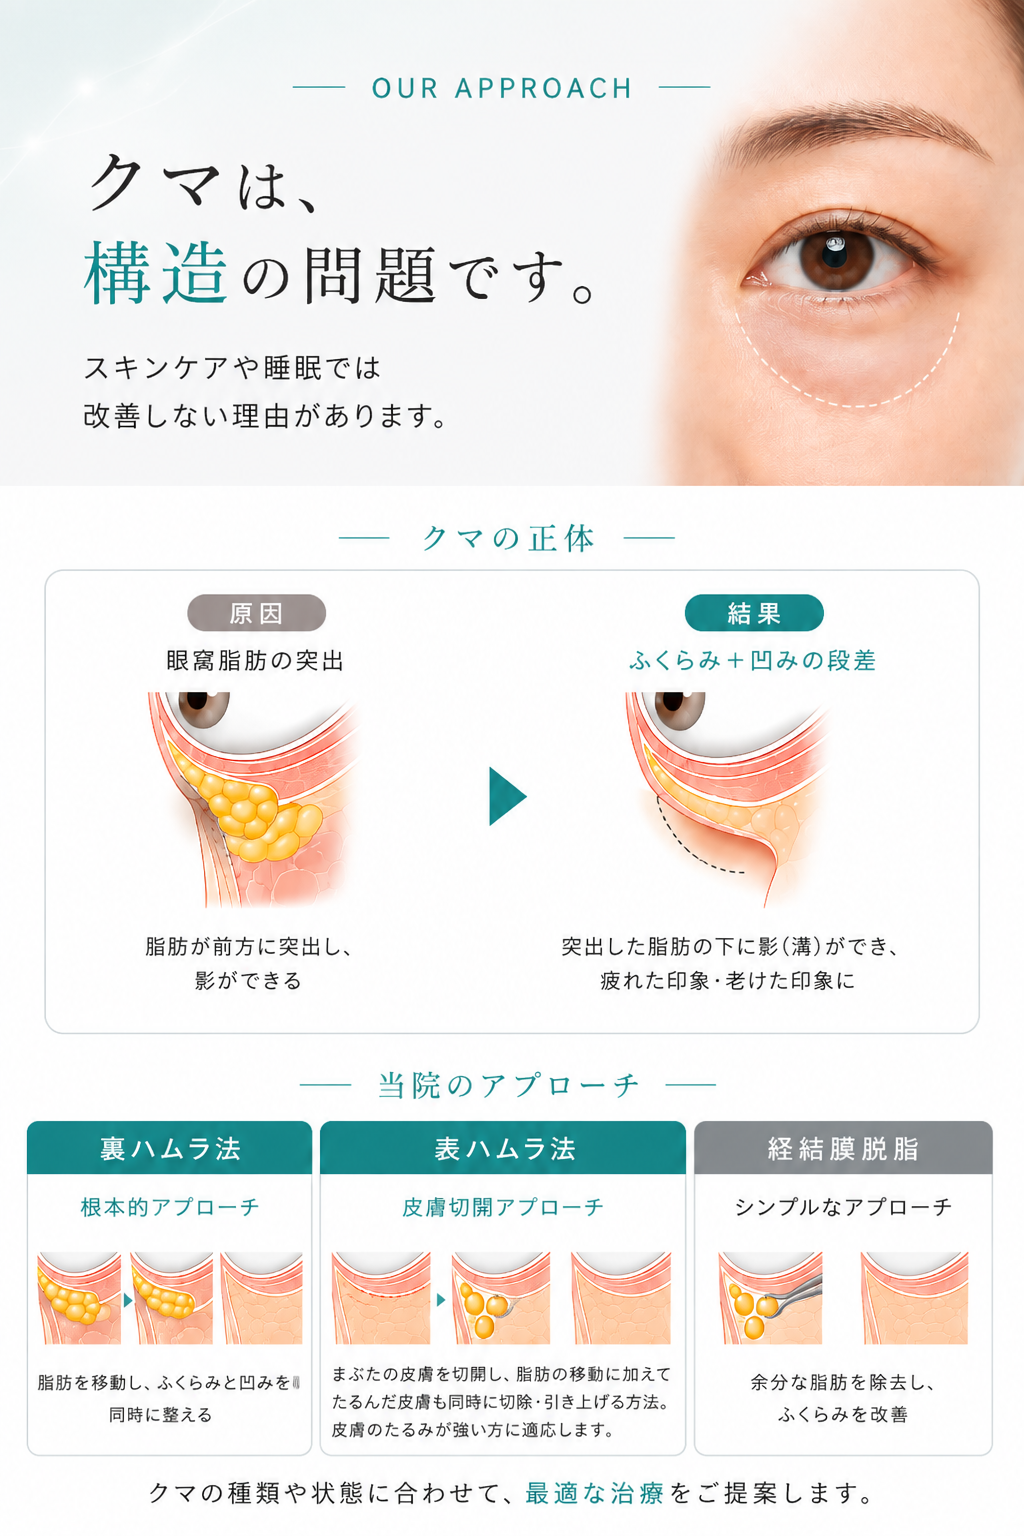
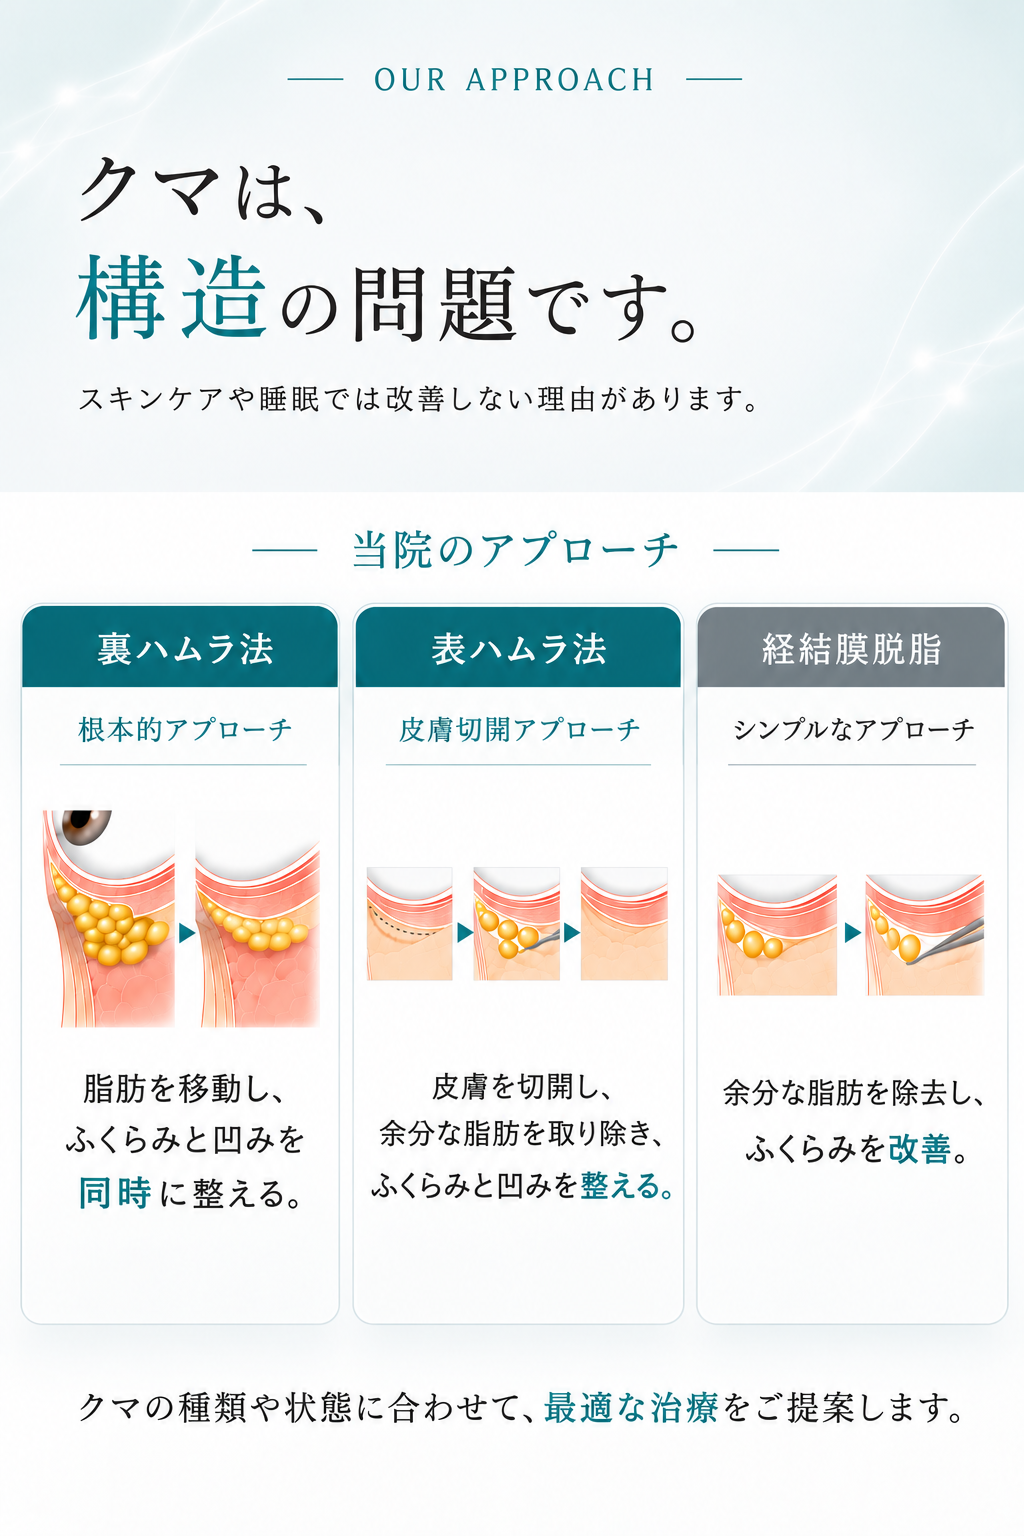
9月モニター対応・画像差し替え・セクション統合
- バナー・カウントダウン: 8月→9月（09-30まで）
- FV・WHY・APPROACHセクション画像を新バージョンに差し替え
- カード01タイトル「裏ハムラ」に更新
- STRENGTH+Doctor統合、強みの数字中央揃え

diff --git a/02-kuma-ura-hamura.html b/02-kuma-ura-hamura.html
@@ -195,9 +195,9 @@ height="0" width="0" style="display:none;visibility:hidden"></iframe></noscript>
 <!-- ============== Top Announcement Banner ============== -->
 <div class="top-banner">
   <div class="top-banner-inner">
-    <span class="top-banner-label">8月モニター10名限定</span>
+    <span class="top-banner-label">9月モニター10名限定</span>
     <span class="top-banner-text">募集終了まで</span>
-    <div class="top-banner-countdown" data-countdown="2026-08-31T23:59:59+09:00">
+    <div class="top-banner-countdown" data-countdown="2026-09-30T23:59:59+09:00">
       <span class="tb-seg"><span data-cd="d">00</span>日</span>
       <span class="tb-sep">:</span>
       <span class="tb-seg"><span data-cd="h">00</span>時間</span>
@@ -245,7 +245,7 @@ height="0" width="0" style="display:none;visibility:hidden"></iframe></noscript>
 </section>
 
 <!-- ============== Clinic Approach ============== -->
-<section style="padding:0;">
+<section class="case-section" style="padding:0;">
   <img src="assets/approach-section-kuma.png" alt="クマは、構造の問題です。当院のアプローチ" style="width:100%; display:block;" />
 </section>
 
@@ -259,11 +259,10 @@ height="0" width="0" style="display:none;visibility:hidden"></iframe></noscript>
 
         <!-- Header -->
         <header class="text-center animate-entrada" style="--delay:1; padding-bottom:40px;">
-          <span class="font-sans-jp text-[10px] tracking-widest mb-3 block" style="color:rgba(90,181,160,0.8); letter-spacing:0.3em;">— MENU —</span>
-          <h2 class="font-mincho text-2xl tracking-widest relative inline-block" style="color:#2d2d2d;">
-            モニターメニュー
-            <span class="absolute -bottom-3 left-1/2 -translate-x-1/2 w-8 h-[1px]" style="background:rgba(45,45,45,0.2);"></span>
-          </h2>
+          <div class="section-head" style="margin-bottom:0;">
+            <span class="eyebrow">MENU</span>
+            <h2 class="ja">モニターメニュー</h2>
+          </div>
         </header>
 
 
@@ -272,24 +271,17 @@ height="0" width="0" style="display:none;visibility:hidden"></iframe></noscript>
           <div class="flex justify-between items-start mb-5">
             <span class="font-sans-jp font-bold text-6xl leading-none" style="color:#5ab5a0; font-style:normal;">01</span>
           </div>
-          <h3 class="font-mincho tracking-wide text-[22px] font-medium leading-snug mb-3" style="color:#2d2d2d;">ハムラ法（裏ハムラ）</h3>
-          <p class="font-sans-jp text-[13px] leading-relaxed mb-5" style="color:rgba(45,45,45,0.65);">目の下の脂肪（眼窩脂肪）を「除去」せず「移動・再配置」することで、ふくらみを平らにしながらくぼみを同時に補う術式。切開は結膜側（まぶたの裏）のみで、顔の表面に傷が残りません。</p>
+          <h3 class="font-mincho tracking-wide text-[22px] font-medium leading-snug mb-3" style="color:#2d2d2d;">裏ハムラ</h3>
           <div class="flex items-center gap-2 mb-6">
             <span class="font-sans-jp text-[10px] font-medium px-2 py-1 rounded" style="background:rgba(45,45,45,0.06); color:rgba(45,45,45,0.5);">内出血が落ち着く目安（ダウンタイム）</span>
             <span class="font-sans-jp text-sm font-bold" style="color:#2d2d2d;">1〜2週間</span>
           </div>
-          <ul class="space-y-3 mb-8">
-            <li class="flex items-start gap-3"><svg class="w-3.5 h-3.5 mt-[3px] shrink-0" style="color:#5ab5a0;" fill="none" viewBox="0 0 24 24" stroke="currentColor" stroke-width="2"><path stroke-linecap="round" stroke-linejoin="round" d="M5 13l4 4L19 7"/></svg><span class="font-sans-jp text-[13px] leading-relaxed" style="color:rgba(45,45,45,0.8);">結膜側（裏）から切開するため、顔に傷跡が残らない</span></li>
-            <li class="flex items-start gap-3"><svg class="w-3.5 h-3.5 mt-[3px] shrink-0" style="color:#5ab5a0;" fill="none" viewBox="0 0 24 24" stroke="currentColor" stroke-width="2"><path stroke-linecap="round" stroke-linejoin="round" d="M5 13l4 4L19 7"/></svg><span class="font-sans-jp text-[13px] leading-relaxed" style="color:rgba(45,45,45,0.8);">眼窩脂肪を移動・再配置し、クマとくぼみを同時に改善</span></li>
-            <li class="flex items-start gap-3"><svg class="w-3.5 h-3.5 mt-[3px] shrink-0" style="color:#5ab5a0;" fill="none" viewBox="0 0 24 24" stroke="currentColor" stroke-width="2"><path stroke-linecap="round" stroke-linejoin="round" d="M5 13l4 4L19 7"/></svg><span class="font-sans-jp text-[13px] leading-relaxed" style="color:rgba(45,45,45,0.8);">根本原因にアプローチするため、長期的な改善が期待できる</span></li>
-          </ul>
           <div class="price-box rounded-xl p-5 border relative" style="background:#fafafa; border-color:rgba(45,45,45,0.05);">
             <div class="sticker-rotate absolute -right-3 -top-4 w-14 h-14 rounded-full text-white flex flex-col items-center justify-center" style="background:#5ab5a0; box-shadow:0 8px 16px rgba(90,181,160,0.3);">
               <span class="font-sans-jp text-[13px] font-bold leading-none mt-1" style="font-style:normal;">最大<br/>50<span class="text-[10px]">%</span></span>
               <span class="font-sans-jp text-[8px] font-bold tracking-widest uppercase mt-[-1px]">Off</span>
             </div>
             <div class="flex items-center gap-2 mb-3">
-              <span class="font-sans-jp text-[9px] text-white tracking-widest px-1.5 py-0.5 rounded-sm" style="background:#2d2d2d;">限定価格</span>
               <span class="font-sans-jp font-medium text-xs line-through" style="color:rgba(45,45,45,0.4);">通常 ¥440,000</span>
             </div>
             <div class="price-tier">
@@ -310,24 +302,17 @@ height="0" width="0" style="display:none;visibility:hidden"></iframe></noscript>
           <div class="flex justify-between items-start mb-5">
             <span class="font-sans-jp font-bold text-6xl leading-none" style="color:#5ab5a0; font-style:normal;">02</span>
           </div>
-          <h3 class="font-mincho tracking-wide text-[22px] font-medium leading-snug mb-3" style="color:#2d2d2d;">表ハムラ法</h3>
-          <p class="font-sans-jp text-[13px] leading-relaxed mb-5" style="color:rgba(45,45,45,0.65);">下まぶたの睫毛際（表側）から切開し、余分な皮膚を切除しながら眼窩脂肪を移動・再配置する術式。皮膚のたるみが強い方や余剰皮膚が目立つ方に対応できます。切開線は睫毛の際に沿うため、形成外科専門医による精緻な縫合で傷跡を極限まで目立たない仕上がりにします。</p>
+          <h3 class="font-mincho tracking-wide text-[22px] font-medium leading-snug mb-3" style="color:#2d2d2d;">表ハムラ法＋皮膚切除</h3>
           <div class="flex items-center gap-2 mb-6">
             <span class="font-sans-jp text-[10px] font-medium px-2 py-1 rounded" style="background:rgba(45,45,45,0.06); color:rgba(45,45,45,0.5);">内出血が落ち着く目安（ダウンタイム）</span>
             <span class="font-sans-jp text-sm font-bold" style="color:#2d2d2d;">1〜2週間</span>
           </div>
-          <ul class="space-y-3 mb-8">
-            <li class="flex items-start gap-3"><svg class="w-3.5 h-3.5 mt-[3px] shrink-0" style="color:#5ab5a0;" fill="none" viewBox="0 0 24 24" stroke="currentColor" stroke-width="2"><path stroke-linecap="round" stroke-linejoin="round" d="M5 13l4 4L19 7"/></svg><span class="font-sans-jp text-[13px] leading-relaxed" style="color:rgba(45,45,45,0.8);">皮膚切除と脂肪移動を同時に行い、たるみとクマを改善</span></li>
-            <li class="flex items-start gap-3"><svg class="w-3.5 h-3.5 mt-[3px] shrink-0" style="color:#5ab5a0;" fill="none" viewBox="0 0 24 24" stroke="currentColor" stroke-width="2"><path stroke-linecap="round" stroke-linejoin="round" d="M5 13l4 4L19 7"/></svg><span class="font-sans-jp text-[13px] leading-relaxed" style="color:rgba(45,45,45,0.8);">余剰皮膚が目立つ方・皮膚のたるみが強い方に適した術式</span></li>
-            <li class="flex items-start gap-3"><svg class="w-3.5 h-3.5 mt-[3px] shrink-0" style="color:#5ab5a0;" fill="none" viewBox="0 0 24 24" stroke="currentColor" stroke-width="2"><path stroke-linecap="round" stroke-linejoin="round" d="M5 13l4 4L19 7"/></svg><span class="font-sans-jp text-[13px] leading-relaxed" style="color:rgba(45,45,45,0.8);">形成外科専門医による精緻な縫合で傷跡を最小限に</span></li>
-          </ul>
           <div class="price-box rounded-xl p-5 border relative" style="background:#fafafa; border-color:rgba(45,45,45,0.05);">
             <div class="sticker-rotate absolute -right-3 -top-4 w-14 h-14 rounded-full text-white flex flex-col items-center justify-center" style="background:#5ab5a0; box-shadow:0 8px 16px rgba(90,181,160,0.3);">
               <span class="font-sans-jp text-[13px] font-bold leading-none mt-1" style="font-style:normal;">最大<br/>40<span class="text-[10px]">%</span></span>
               <span class="font-sans-jp text-[8px] font-bold tracking-widest uppercase mt-[-1px]">Off</span>
             </div>
             <div class="flex items-center gap-2 mb-3">
-              <span class="font-sans-jp text-[9px] text-white tracking-widest px-1.5 py-0.5 rounded-sm" style="background:#2d2d2d;">限定価格</span>
               <span class="font-sans-jp font-medium text-xs line-through" style="color:rgba(45,45,45,0.4);">通常 ¥495,000</span>
             </div>
             <div class="price-tier">
@@ -348,23 +333,17 @@ height="0" width="0" style="display:none;visibility:hidden"></iframe></noscript>
           <div class="flex justify-between items-start mb-5">
             <span class="font-sans-jp font-bold text-6xl leading-none" style="color:#5ab5a0; font-style:normal;">03</span>
           </div>
-          <h3 class="font-mincho tracking-wide text-[22px] font-medium leading-snug mb-6" style="color:#2d2d2d;">経結膜脱脂</h3>
+          <h3 class="font-mincho tracking-wide text-[22px] font-medium leading-snug mb-3" style="color:#2d2d2d;">経結膜脱脂</h3>
           <div class="flex items-center gap-2 mb-6">
             <span class="font-sans-jp text-[10px] font-medium px-2 py-1 rounded" style="background:rgba(45,45,45,0.06); color:rgba(45,45,45,0.5);">内出血が落ち着く目安（ダウンタイム）</span>
             <span class="font-sans-jp text-sm font-bold" style="color:#2d2d2d;">5〜7日</span>
           </div>
-          <ul class="space-y-3 mb-8">
-            <li class="flex items-start gap-3"><svg class="w-3.5 h-3.5 mt-[3px] shrink-0" style="color:#5ab5a0;" fill="none" viewBox="0 0 24 24" stroke="currentColor" stroke-width="2"><path stroke-linecap="round" stroke-linejoin="round" d="M5 13l4 4L19 7"/></svg><span class="font-sans-jp text-[13px] leading-relaxed" style="color:rgba(45,45,45,0.8);">結膜側（裏）から切開するため、顔に傷跡が残らない</span></li>
-            <li class="flex items-start gap-3"><svg class="w-3.5 h-3.5 mt-[3px] shrink-0" style="color:#5ab5a0;" fill="none" viewBox="0 0 24 24" stroke="currentColor" stroke-width="2"><path stroke-linecap="round" stroke-linejoin="round" d="M5 13l4 4L19 7"/></svg><span class="font-sans-jp text-[13px] leading-relaxed" style="color:rgba(45,45,45,0.8);">突出した眼窩脂肪を除去し、ふくらみを改善</span></li>
-            <li class="flex items-start gap-3"><svg class="w-3.5 h-3.5 mt-[3px] shrink-0" style="color:#5ab5a0;" fill="none" viewBox="0 0 24 24" stroke="currentColor" stroke-width="2"><path stroke-linecap="round" stroke-linejoin="round" d="M5 13l4 4L19 7"/></svg><span class="font-sans-jp text-[13px] leading-relaxed" style="color:rgba(45,45,45,0.8);">くぼみが少ない方・比較的若い方に向いている</span></li>
-          </ul>
           <div class="price-box rounded-xl p-5 border relative" style="background:#fafafa; border-color:rgba(45,45,45,0.05);">
             <div class="sticker-rotate absolute -right-3 -top-4 w-14 h-14 rounded-full text-white flex flex-col items-center justify-center" style="background:#5ab5a0; box-shadow:0 8px 16px rgba(90,181,160,0.3);">
               <span class="font-sans-jp text-[13px] font-bold leading-none mt-1" style="font-style:normal;">最大<br/>40<span class="text-[10px]">%</span></span>
               <span class="font-sans-jp text-[8px] font-bold tracking-widest uppercase mt-[-1px]">Off</span>
             </div>
             <div class="flex items-center gap-2 mb-3">
-              <span class="font-sans-jp text-[9px] text-white tracking-widest px-1.5 py-0.5 rounded-sm" style="background:#2d2d2d;">限定価格</span>
               <span class="font-sans-jp font-medium text-xs line-through" style="color:rgba(45,45,45,0.4);">通常 ¥275,000</span>
             </div>
             <div class="price-tier">
@@ -412,48 +391,8 @@ height="0" width="0" style="display:none;visibility:hidden"></iframe></noscript>
 </section>
 
 
-<!-- ============== Pricing table ============== -->
-<section class="section soft" id="price-section">
-  <div class="wrap-narrow">
-    <div class="section-head fade-in">
-      <span class="eyebrow">PRICE</span>
-      <h2 class="ja">モニター<span class="hi">料金</span></h2>
-    </div>
-    <div class="price-table fade-in">
-      <div class="price-row four-col head">
-        <div>術式</div>
-        <div style="text-align:right;">通常価格</div>
-        <div style="text-align:center;">全顔モニター</div>
-        <div style="text-align:center;">部分モニター</div>
-      </div>
-      <div class="price-row four-col">
-        <div class="name">ハムラ法（裏ハムラ）<span class="small">経結膜からの脂肪移動術</span></div>
-        <div class="reg"><s>¥440,000</s></div>
-        <div class="camp" style="text-align:center;"><span class="badge badge-50">50% OFF</span><br />¥<span class="num" style="color:#5ab5a0;">220,000</span><span class="tax">税込</span></div>
-        <div class="camp40" style="text-align:center;"><span class="badge badge-40">40% OFF</span><br />¥<span class="num">264,000</span><span class="tax">税込</span></div>
-      </div>
-      <div class="price-row four-col">
-        <div class="name">表ハムラ法<span class="small">皮膚切除＋ハムラ法</span></div>
-        <div class="reg"><s>¥495,000</s></div>
-        <div class="camp40" style="text-align:center;"><span class="badge badge-50">40% OFF</span><br />¥<span class="num" style="color:#5ab5a0;">297,000</span><span class="tax">税込</span></div>
-        <div class="camp30" style="text-align:center;"><span class="badge badge-30">30% OFF</span><br />¥<span class="num">346,500</span><span class="tax">税込</span></div>
-      </div>
-      <div class="price-row four-col">
-        <div class="name">経結膜脱脂<span class="small">経結膜からの脂肪除去</span></div>
-        <div class="reg"><s>¥275,000</s></div>
-        <div class="camp40" style="text-align:center;"><span class="badge badge-50">40% OFF</span><br />¥<span class="num" style="color:#5ab5a0;">165,000</span><span class="tax">税込</span></div>
-        <div class="camp30" style="text-align:center;"><span class="badge badge-30">30% OFF</span><br />¥<span class="num">192,500</span><span class="tax">税込</span></div>
-      </div>
-    </div>
-    <p class="price-note">
-      ※ 価格はすべて税込です。<br />
-      ※ 麻酔料・手術検査料（¥11,000）・点滴投薬料（¥11,000）が別途かかる場合がございます。<br />
-      ※ モニター定員：各施術10名。定員に達し次第、募集を終了いたします。
-    </p>
-  </div>
-</section>
 
-<!-- ============== Strengths ============== -->
+<!-- ============== Strengths + Doctor ============== -->
 <section class="section soft" id="strengths-section">
   <div class="wrap">
     <div class="section-head fade-in">
@@ -461,50 +400,15 @@ height="0" width="0" style="display:none;visibility:hidden"></iframe></noscript>
       <h2 class="ja">岩垂 鈴香先生の<span class="hi">4つ</span>の強み</h2>
       <p class="desc">形成外科専門医ならではの、技術と実績へのこだわり。</p>
     </div>
-    <div class="strength-grid">
-      <article class="strength-card fade-in">
-        <span class="num"><span class="l">STRENGTH</span><span class="n">01</span></span>
-        <h3>形成外科専門医として<span class="sp-br"><br></span>眼窩・涙袋の解剖を熟知</h3>
-        <p>形成外科の専門訓練で、眼窩脂肪・筋肉・靭帯の構造を熟知。クマの種類と程度を医学的に診断し、裏ハムラ法・皮膚切除+ハムラ法・経結膜脱脂を適切に使い分けられる。</p>
-      </article>
-      <article class="strength-card fade-in">
-        <span class="num"><span class="l">STRENGTH</span><span class="n">02</span></span>
-        <h3>顔に傷が残らない裏ハムラ法の執刀経験</h3>
-        <p>結膜側からのアプローチは高い技術を要するが、表に傷が残らない。形成外科的な縫合技術が、術後の腫れ・仕上がりに直結する。</p>
-      </article>
-      <article class="strength-card fade-in">
-        <span class="num"><span class="l">STRENGTH</span><span class="n">03</span></span>
-        <h3>広島での17年・他院修正の実績</h3>
-        <p>広島で17年間、形成外科的アプローチによる手術を実施。他院での脱脂後のくぼみや不自然な仕上がりの修正依頼が継続的にある。</p>
-      </article>
-      <article class="strength-card fade-in">
-        <span class="num"><span class="l">STRENGTH</span><span class="n">04</span></span>
-        <h3>施術を受けた患者様が、<br />知人に勧めるクリニック。</h3>
-        <p>2026年1〜4月、初診136名のうち49名（36%）が既存患者様の紹介で来院。3月は52%が紹介経由。（出典：院内統計表 2026年1〜4月）</p>
-      </article>
-    </div>
-    <div class="cta-center" style="margin-top:40px;">
-      <a href="#booking" class="cta">無料カウンセリングはこちら</a>
-      <p class="cta-micro">カウンセリング完全無料 ・ 契約不要</p>
-    </div>
-  </div>
-</section>
 
-<!-- ============== Doctor profile ============== -->
-<section class="section">
-  <div class="wrap">
-    <div class="section-head fade-in">
-      <span class="eyebrow">DOCTOR</span>
-      <h2 class="ja">院長紹介</h2>
-    </div>
-    <div class="doctor fade-in">
+    <!-- Doctor profile inside strengths -->
+    <div class="doctor fade-in" style="margin-bottom:48px;">
       <div class="portrait">
         <img src="assets/doctor-portrait.jpg" alt="岩垂鈴香院長" style="width:100%;height:100%;object-fit:cover;object-position:center top;" />
       </div>
       <div class="body">
         <div class="role">DIRECTOR / 形成外科専門医</div>
         <div class="name"><span class="small">院長</span>岩垂 鈴香<span class="suffix">先生</span></div>
-
         <div class="career">
           <h4>略歴</h4>
           <ul>
@@ -522,10 +426,36 @@ height="0" width="0" style="display:none;visibility:hidden"></iframe></noscript>
             <span class="tag">日本美容外科学会</span>
             <span class="tag">日本美容皮膚科学会</span>
             <span class="tag">日本頭蓋顎顔面外科学会</span>
-
           </div>
         </div>
       </div>
+    </div>
+
+    <div class="strength-grid">
+      <article class="strength-card fade-in">
+        <span class="num" style="display:flex; flex-direction:column; align-items:center; text-align:center;"><span class="l">STRENGTH</span><span class="n">01</span></span>
+        <h3>形成外科専門医として<span class="sp-br"><br></span>眼窩・涙袋の解剖を熟知</h3>
+        <p>形成外科の専門訓練で、眼窩脂肪・筋肉・靭帯の構造を熟知。クマの種類と程度を医学的に診断し、裏ハムラ法・皮膚切除+ハムラ法・経結膜脱脂を適切に使い分けられる。</p>
+      </article>
+      <article class="strength-card fade-in">
+        <span class="num" style="display:flex; flex-direction:column; align-items:center; text-align:center;"><span class="l">STRENGTH</span><span class="n">02</span></span>
+        <h3>顔に傷が残らない裏ハムラ法の執刀経験</h3>
+        <p>結膜側からのアプローチは高い技術を要するが、表に傷が残らない。形成外科的な縫合技術が、術後の腫れ・仕上がりに直結する。</p>
+      </article>
+      <article class="strength-card fade-in">
+        <span class="num" style="display:flex; flex-direction:column; align-items:center; text-align:center;"><span class="l">STRENGTH</span><span class="n">03</span></span>
+        <h3>広島での17年・他院修正の実績</h3>
+        <p>広島で17年間、形成外科的アプローチによる手術を実施。他院での脱脂後のくぼみや不自然な仕上がりの修正依頼が継続的にある。</p>
+      </article>
+      <article class="strength-card fade-in">
+        <span class="num" style="display:flex; flex-direction:column; align-items:center; text-align:center;"><span class="l">STRENGTH</span><span class="n">04</span></span>
+        <h3>施術を受けた患者様が、<br />知人に勧めるクリニック。</h3>
+        <p>2026年1〜4月、初診136名のうち49名（36%）が既存患者様の紹介で来院。3月は52%が紹介経由。（出典：院内統計表 2026年1〜4月）</p>
+      </article>
+    </div>
+    <div class="cta-center" style="margin-top:40px;">
+      <a href="#booking" class="cta">無料カウンセリングはこちら</a>
+      <p class="cta-micro">カウンセリング完全無料 ・ 契約不要</p>
     </div>
   </div>
 </section>
